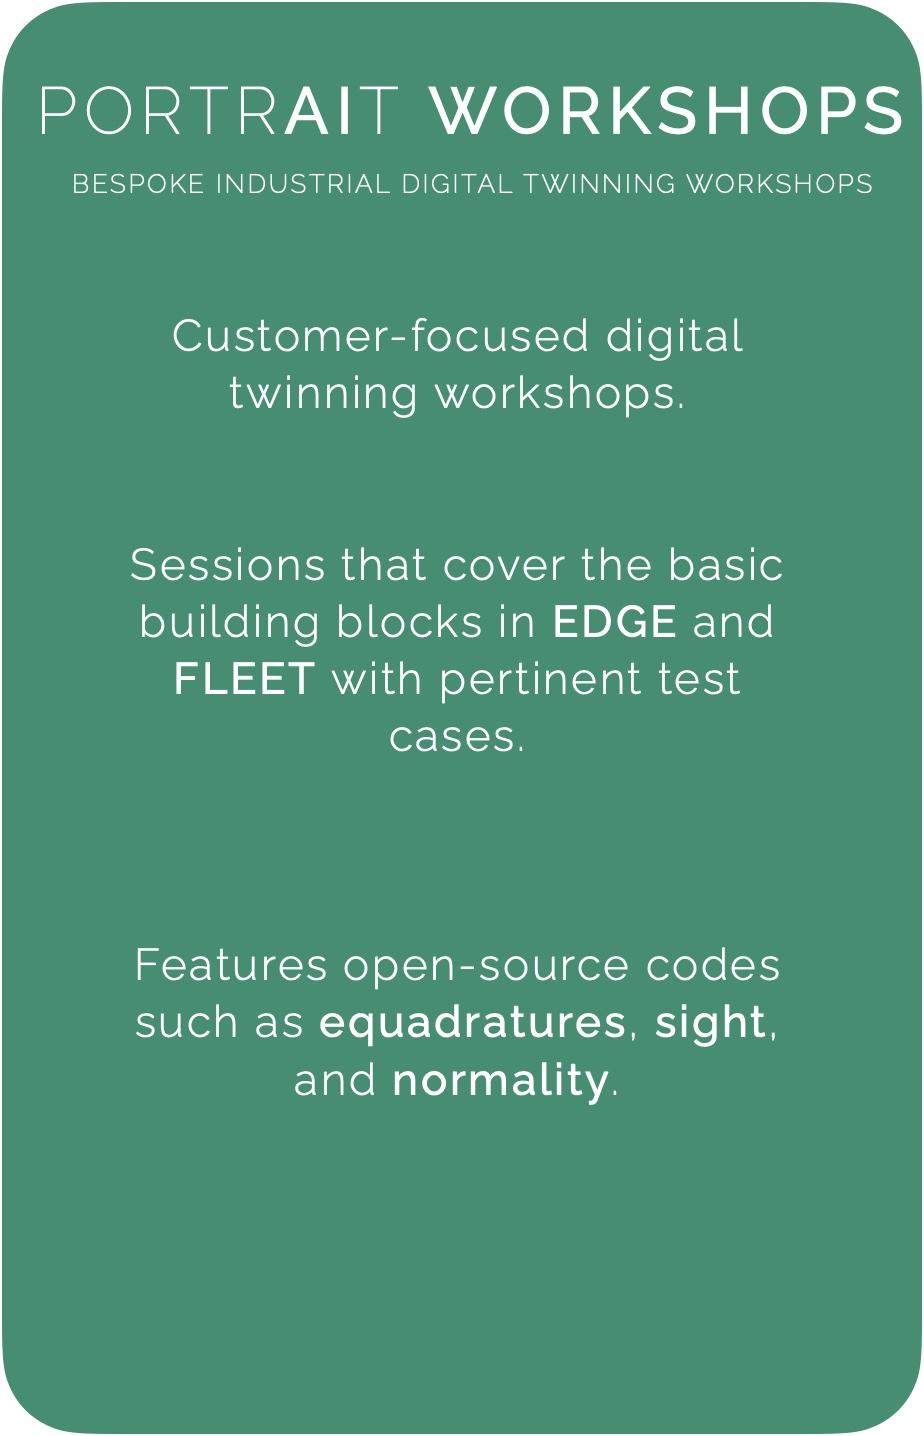
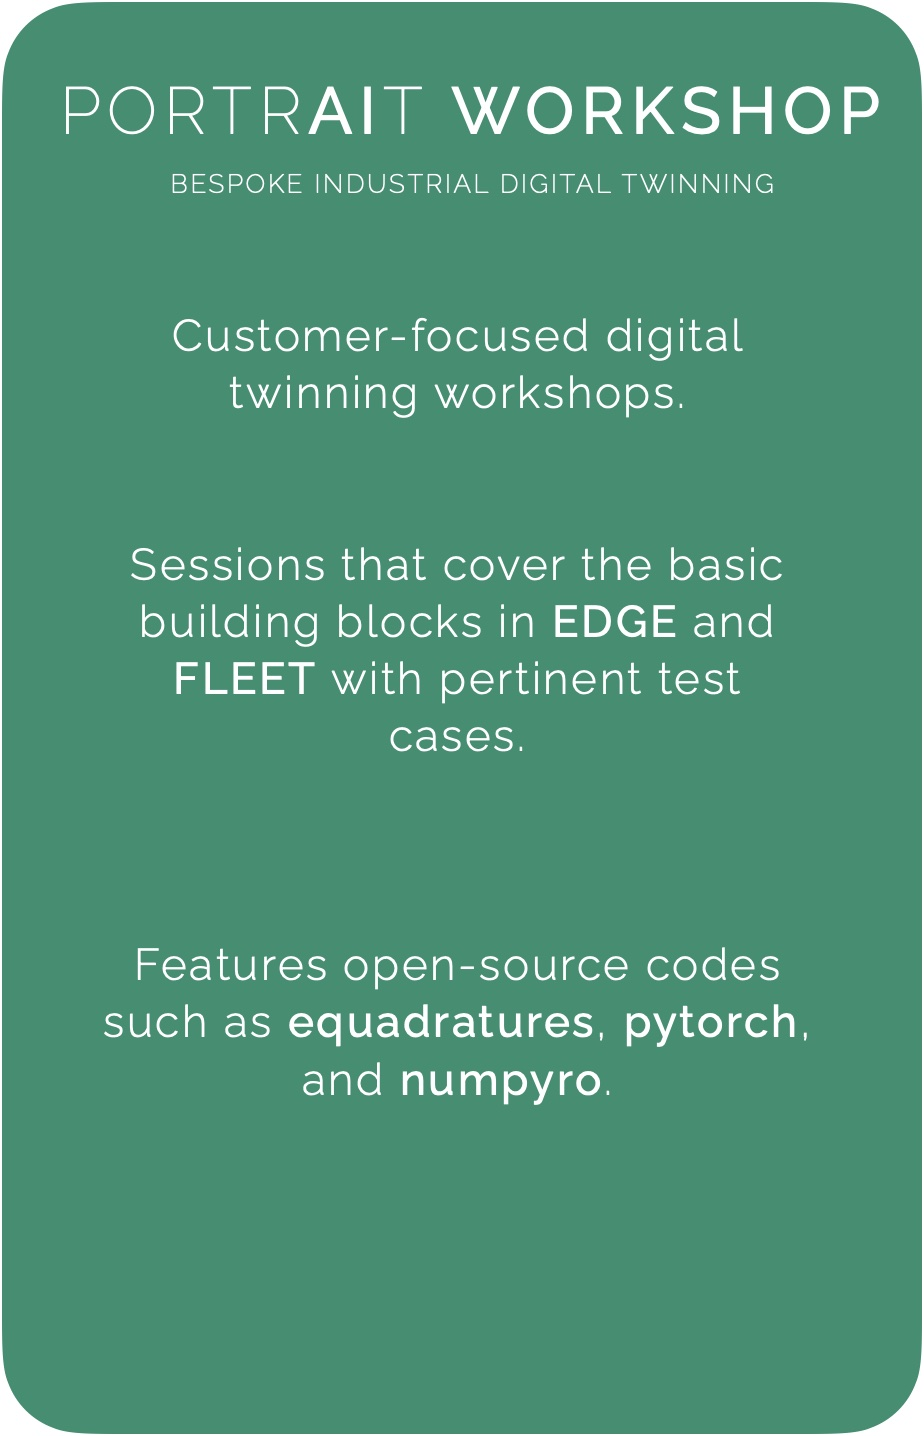
update

diff --git a/products.html b/products.html
@@ -71,7 +71,7 @@ Information on our products and services are given below. <br><br>
 <br>
 <p class="em-wide" id="portraitledger">PORTR<b>AI</b>T <b>LEDGER</b></p><br> Ledger represents our tools for assisting companies working focused on incorporating blockchain technologies within their asset maintenance and workscope ecosystem.<br><br>
 
-<p class="em-wide" id="portraitworkshops">PORTR<b>AI</b>T <b>WORKSHOPS</b></p><br>
+<p class="em-wide" id="portraitworkshops">PORTR<b>AI</b>T <b>WORKSHOP</b></p><br>
 <br>
 <img alt="" class="centerimg"width="800px" src="./img/workshops-2.jpg"><br>
 The Workshop is a two-day service which uses our core IP engine as well as consultancy services included to support and get the output required to solve the particular challenge. The output is a bespoke digital twin which can be based on existing digital twins or be a new model, as well as incorporating disparate and new heterogeneous data. The workshop is split over two days: <br><br>
